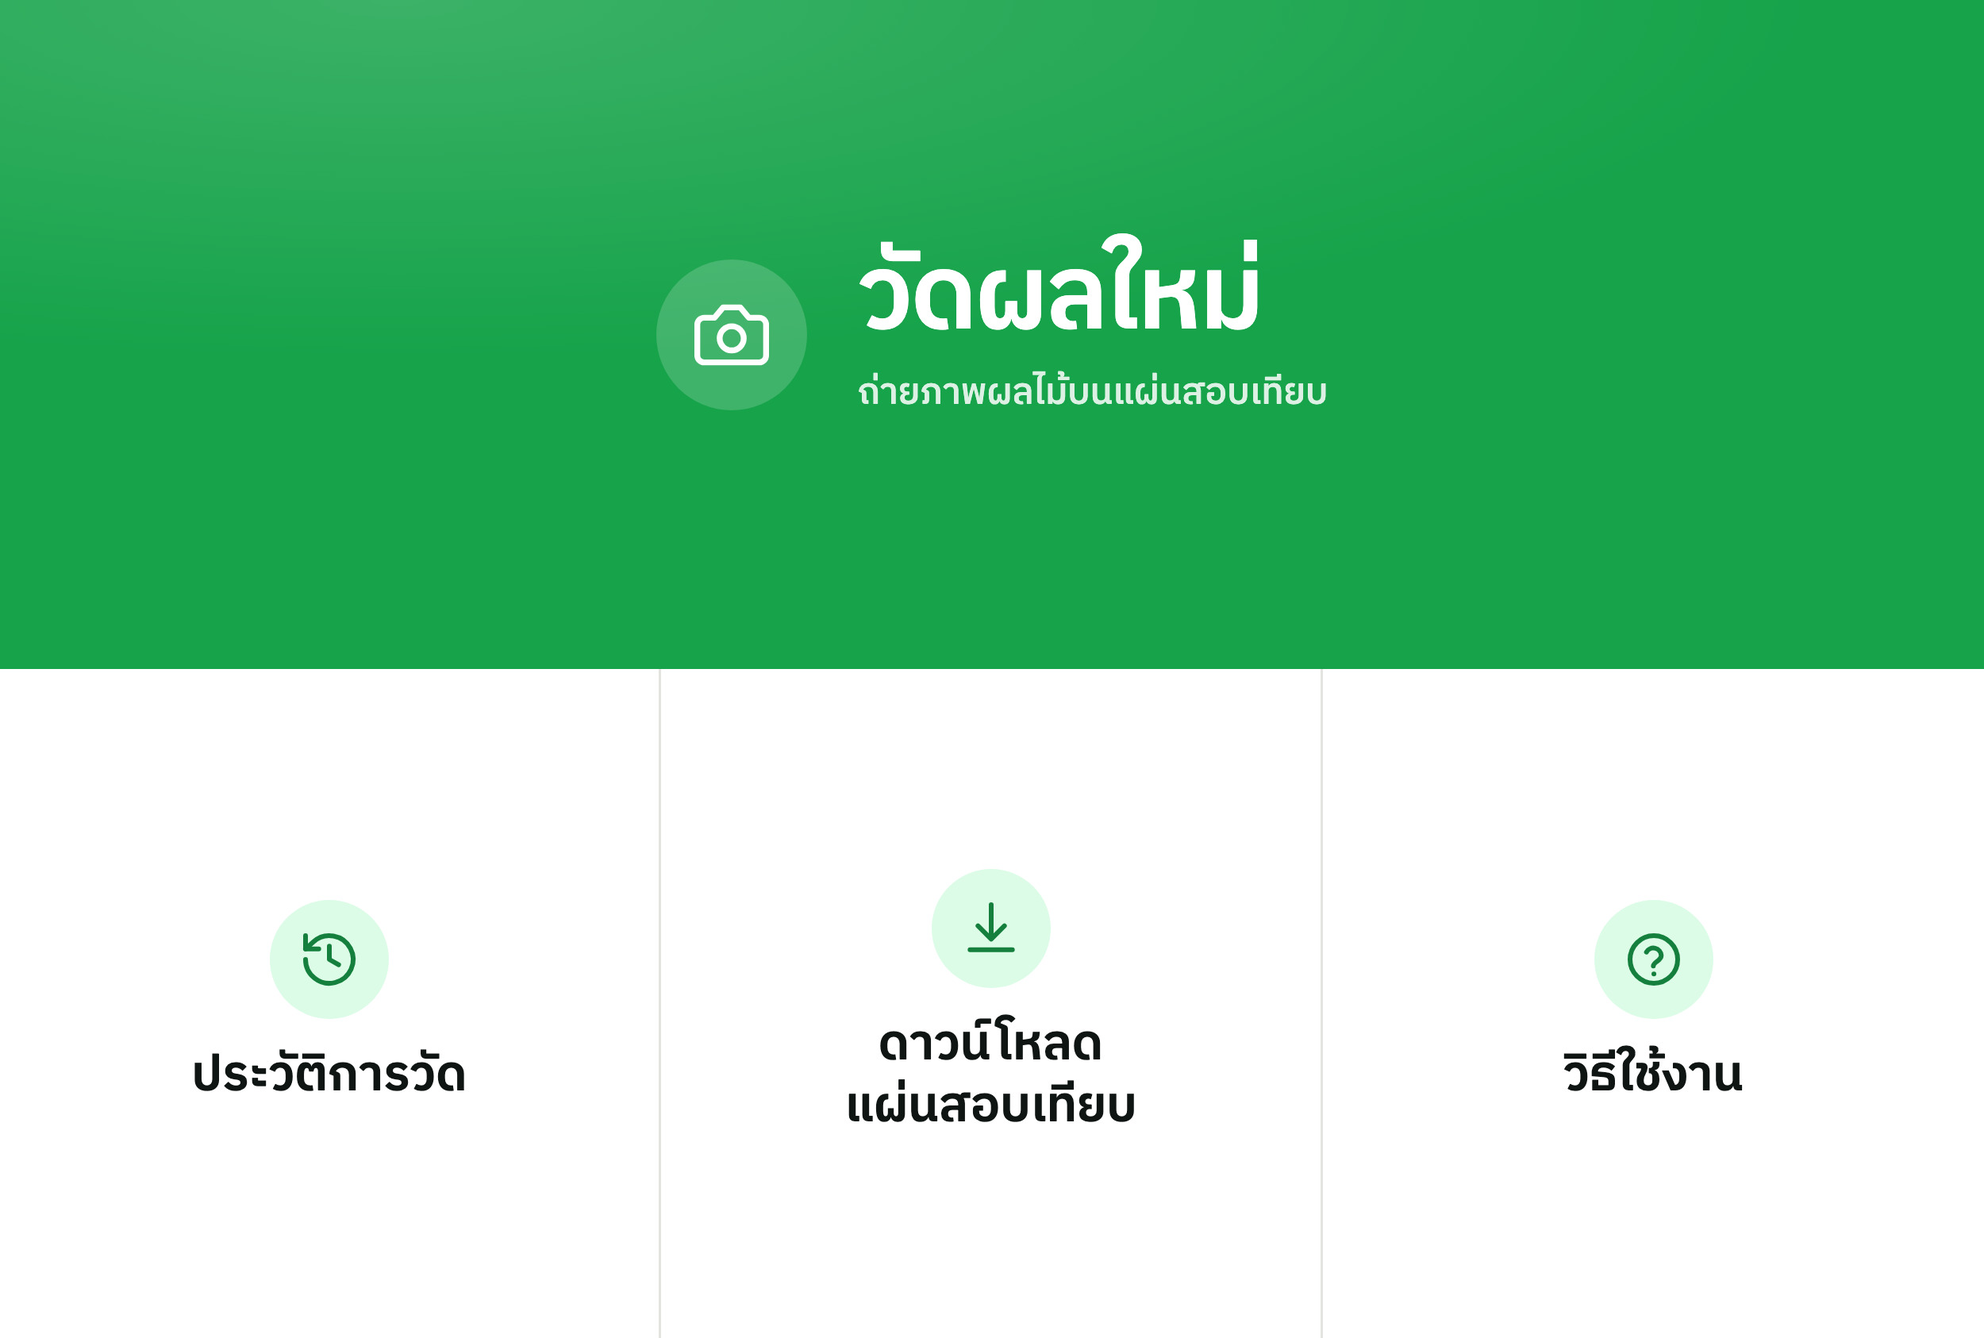
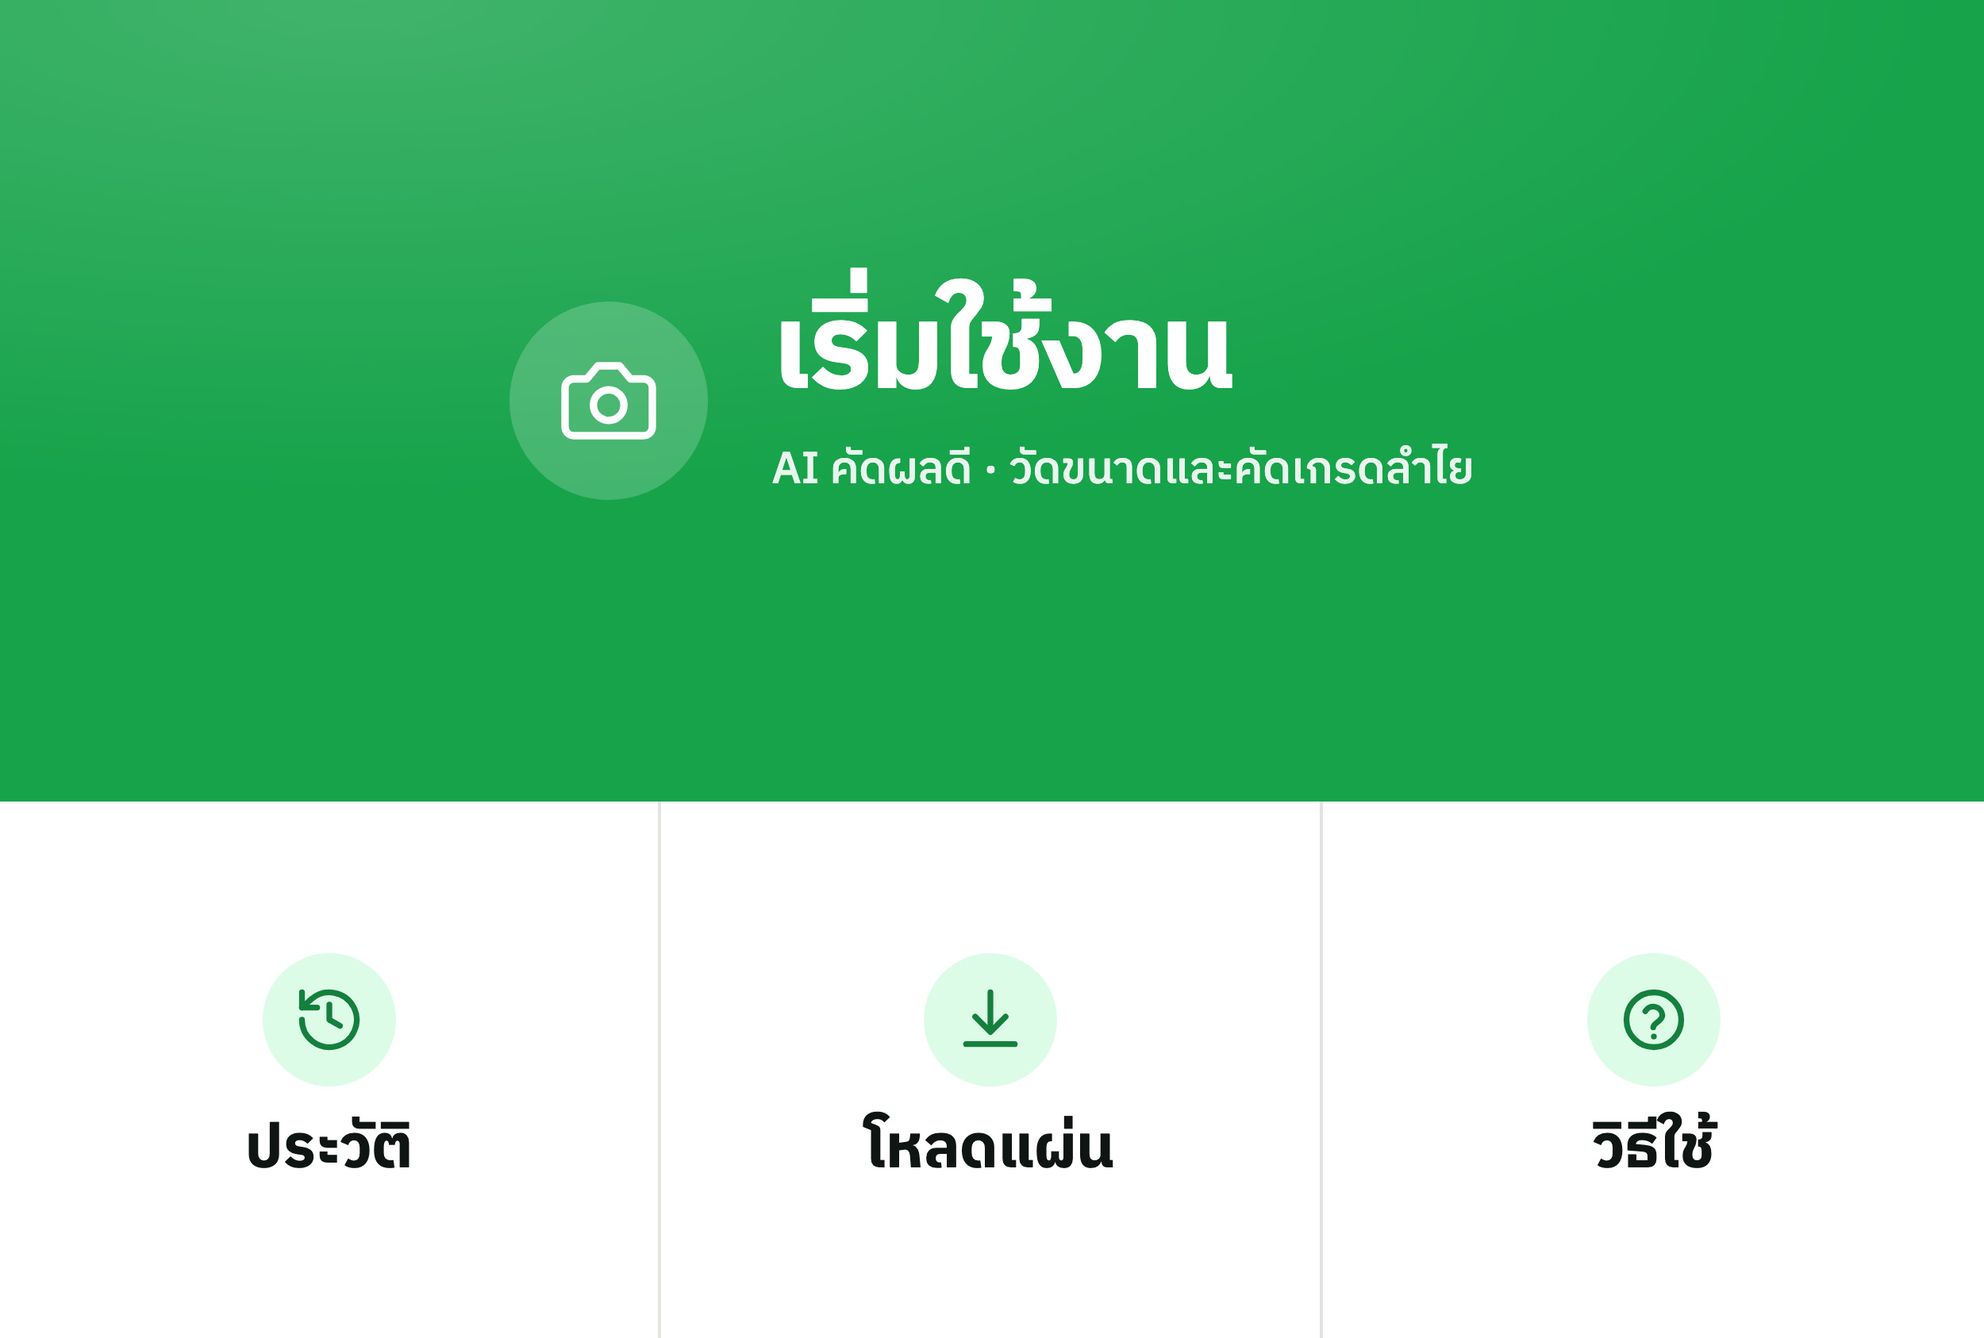
Show what was detected, on the farmer's own photo
After analysing, the result opens with the capture itself, every detected fruit
circled in its grade colour with the millimetres on it. A bare number is
something you either believe or you don't; a circle you can hold up against the
fruit in front of you is something you can check. It is also the fastest way to
catch the failure that matters most — fruit that were missed, or two touching
fruit read as one.

The server returns the homography rather than a rendered image: the client
already holds the photo, so drawing on it costs no bandwidth, adds no latency,
and keeps the picture recognisable as the one they just took.

Occluded fruit are drawn as grey dashed circles with no number — they are
counted, never measured, and must not look like a confident reading.

Rich menu redesigned around a single 1010 px primary button reading
เริ่มใช้งาน, with larger type throughout. Tap coordinates changed with it.

diff --git a/frontend/src/components/DetectionOverlay.tsx b/frontend/src/components/DetectionOverlay.tsx
@@ -1,0 +1,177 @@
+import { useEffect, useRef, useState } from 'react'
+import { Loader2 } from 'lucide-react'
+import { useT } from './ui'
+import { ruleById } from '@/domain/grade'
+import type { FruitProfile, MeasurementResult } from '@/domain/types'
+
+/**
+ * The farmer's own photo with every detection drawn on it.
+ *
+ * This is the trust surface of the whole app. A number on its own ("28.4 mm")
+ * is something you either believe or you don't; a circle around each fruit with
+ * its size on it is something you can check against what is in front of you.
+ * It is also the fastest way to spot the failure that matters — fruit that were
+ * missed, or two touching fruit read as one.
+ *
+ * Positions come back in mat millimetres, so they are projected through the
+ * homography the server solved. Drawing on the original photo rather than a
+ * rectified one keeps it recognisable as the picture they just took.
+ */
+export default function DetectionOverlay({
+  image,
+  result,
+  fruit,
+}: {
+  image: Blob
+  result: MeasurementResult
+  fruit: FruitProfile
+}) {
+  const { t, tx } = useT()
+  const canvasRef = useRef<HTMLCanvasElement>(null)
+  const [url, setUrl] = useState<string | null>(null)
+  const [busy, setBusy] = useState(true)
+
+  useEffect(() => {
+    let dead = false
+    const objectUrl = URL.createObjectURL(image)
+    const img = new Image()
+
+    img.onload = () => {
+      if (dead) return
+      const H = result.homography
+      const canvas = canvasRef.current
+      if (!canvas || !H || H.length !== 9) {
+        setBusy(false)
+        return
+      }
+
+      // cap the working size: a 12 MP canvas is pointless on a phone screen and
+      // slow enough to feel broken
+      const scale = Math.min(1, 1600 / Math.max(img.width, img.height))
+      canvas.width = Math.round(img.width * scale)
+      canvas.height = Math.round(img.height * scale)
+
+      const ctx = canvas.getContext('2d')!
+      ctx.drawImage(img, 0, 0, canvas.width, canvas.height)
+
+      /** mat millimetres -> canvas pixels */
+      const project = (x: number, y: number): [number, number] => {
+        const w = H[6] * x + H[7] * y + H[8]
+        return [
+          ((H[0] * x + H[1] * y + H[2]) / w) * scale,
+          ((H[3] * x + H[4] * y + H[5]) / w) * scale,
+        ]
+      }
+
+      const base = Math.max(canvas.width, canvas.height)
+      const line = Math.max(1.6, base * 0.0022)
+      const font = Math.max(11, base * 0.016)
+
+      // dim everything outside the measurement area so the eye goes to the fruit
+      const area = [
+        project(75, 75),
+        project(425, 75),
+        project(425, 425),
+        project(75, 425),
+      ]
+      ctx.save()
+      ctx.fillStyle = 'rgba(11,15,13,0.34)'
+      ctx.beginPath()
+      ctx.rect(0, 0, canvas.width, canvas.height)
+      ctx.moveTo(area[0][0], area[0][1])
+      for (let i = area.length - 1; i >= 0; i--) ctx.lineTo(area[i][0], area[i][1])
+      ctx.closePath()
+      ctx.fill('evenodd')
+      ctx.restore()
+
+      for (const f of result.fruits) {
+        const [cx, cy] = project(f.x, f.y)
+        const [ex, ey] = project(f.x + f.d / 2, f.y)
+        const r = Math.hypot(ex - cx, ey - cy)
+        if (!Number.isFinite(r) || r <= 0) continue
+
+        const rule = ruleById(fruit, f.grade)
+        // occluded fruit are counted but never measured, so they must not look
+        // like a confident reading
+        const colour = f.occluded ? '#9CA3AF' : (rule?.color ?? '#22C55E')
+
+        ctx.beginPath()
+        ctx.arc(cx, cy, r, 0, Math.PI * 2)
+        ctx.strokeStyle = colour
+        ctx.lineWidth = line
+        ctx.setLineDash(f.occluded ? [line * 3, line * 2.5] : [])
+        ctx.stroke()
+        ctx.setLineDash([])
+
+        if (f.occluded) continue
+
+        const label = f.d.toFixed(1)
+        ctx.font = `600 ${font}px "JetBrains Mono", monospace`
+        const w = ctx.measureText(label).width
+        const pad = font * 0.34
+        const bh = font * 1.42
+        const by = cy + r + font * 0.25
+
+        ctx.fillStyle = colour
+        ctx.beginPath()
+        ctx.roundRect(cx - w / 2 - pad, by, w + pad * 2, bh, bh / 2)
+        ctx.fill()
+
+        ctx.fillStyle = '#fff'
+        ctx.textAlign = 'center'
+        ctx.textBaseline = 'middle'
+        ctx.fillText(label, cx, by + bh / 2)
+      }
+
+      setUrl(canvas.toDataURL('image/jpeg', 0.88))
+      setBusy(false)
+    }
+
+    img.onerror = () => !dead && setBusy(false)
+    img.src = objectUrl
+
+    return () => {
+      dead = true
+      URL.revokeObjectURL(objectUrl)
+    }
+  }, [image, result, fruit])
+
+  const occluded = result.counted - result.measured
+
+  return (
+    <div>
+      <canvas ref={canvasRef} className="hidden" />
+      <div className="card overflow-hidden">
+        {busy ? (
+          <div className="grid aspect-[4/3] place-items-center bg-panel text-muted">
+            <Loader2 size={26} className="animate-spin" />
+          </div>
+        ) : url ? (
+          <img src={url} alt={t('result.overlayAlt')} className="block w-full" />
+        ) : (
+          <div className="grid aspect-[4/3] place-items-center bg-panel px-6 text-center text-[13px] text-muted">
+            {t('result.overlayUnavailable')}
+          </div>
+        )}
+      </div>
+
+      <div className="mt-3 flex flex-wrap items-center gap-x-4 gap-y-2 px-1 text-[12px] text-muted">
+        {fruit.grading.rules.map((r) => (
+          <span key={r.id} className="flex items-center gap-1.5">
+            <span
+              className="h-2.5 w-2.5 rounded-full"
+              style={{ backgroundColor: r.color }}
+            />
+            {tx(r.label)}
+          </span>
+        ))}
+        {occluded > 0 && (
+          <span className="flex items-center gap-1.5">
+            <span className="h-2.5 w-2.5 rounded-full border border-dashed border-muted" />
+            {t('result.occluded')} ({occluded})
+          </span>
+        )}
+      </div>
+    </div>
+  )
+}

diff --git a/line/richmenu.html b/line/richmenu.html
@@ -1,65 +1,74 @@
 <meta charset="utf-8">
 <style>
-  @font-face{font-family:'Plex';src:url('../frontend/public/fonts/IBMPlexSansThai-600-thai.woff2') format('woff2');font-weight:600}
-  @font-face{font-family:'Plex';src:url('../frontend/public/fonts/IBMPlexSansThai-600-latin.woff2') format('woff2');font-weight:600}
+  @font-face{font-family:'Plex';src:url('../frontend/public/fonts/IBMPlexSansThai-700-thai.woff2') format('woff2');font-weight:700}
+  @font-face{font-family:'Plex';src:url('../frontend/public/fonts/IBMPlexSansThai-700-latin.woff2') format('woff2');font-weight:700}
   @font-face{font-family:'Plex';src:url('../frontend/public/fonts/IBMPlexSansThai-500-thai.woff2') format('woff2');font-weight:500}
+  @font-face{font-family:'Plex';src:url('../frontend/public/fonts/IBMPlexSansThai-500-latin.woff2') format('woff2');font-weight:500}
   *{margin:0;padding:0;box-sizing:border-box}
-  body{width:2500px;height:1686px;font-family:'Plex',sans-serif;background:#FAFAF9;overflow:hidden}
-  .hero{height:843px;background:#16A34A;display:flex;align-items:center;justify-content:center;gap:64px;position:relative}
+  body{width:2500px;height:1686px;font-family:'Plex',sans-serif;background:#fff;overflow:hidden}
+
+  /* Hero takes 60% of the height. It is the only thing most people will ever
+     tap, so it gets the room — and it is readable at arm's length in sunlight. */
+  .hero{height:1010px;background:#16A34A;display:flex;align-items:center;
+        justify-content:center;gap:80px;position:relative}
   .hero::after{content:'';position:absolute;inset:0;
-    background:radial-gradient(120% 90% at 20% 0%,rgba(255,255,255,.16),transparent 60%)}
-  .hero .ic{width:190px;height:190px;border-radius:50%;background:rgba(255,255,255,.18);
-    display:grid;place-items:center;flex:0 0 auto}
-  .hero h1{font-size:132px;font-weight:600;color:#fff;letter-spacing:-.02em;line-height:1}
-  .hero p{font-size:46px;font-weight:500;color:rgba(255,255,255,.85);margin-top:16px}
-  .row{height:843px;display:grid;grid-template-columns:833px 834px 833px}
-  .cell{display:flex;flex-direction:column;align-items:center;justify-content:center;gap:34px;
-    background:#fff;border-right:3px solid #E3E3DF}
+    background:radial-gradient(130% 100% at 18% 0%,rgba(255,255,255,.18),transparent 62%)}
+  .hero .ic{width:250px;height:250px;border-radius:50%;background:rgba(255,255,255,.20);
+            display:grid;place-items:center;flex:0 0 auto}
+  .hero h1{font-size:150px;font-weight:700;color:#fff;letter-spacing:-.025em;line-height:1}
+  .hero p{font-size:56px;font-weight:500;color:rgba(255,255,255,.9);margin-top:26px}
+
+  .row{height:676px;display:grid;grid-template-columns:833px 834px 833px}
+  .cell{display:flex;flex-direction:column;align-items:center;justify-content:center;
+        gap:36px;background:#fff;border-right:4px solid #E3E3DF}
   .cell:last-child{border-right:0}
-  .cell .ic{width:150px;height:150px;border-radius:50%;background:#DCFCE7;display:grid;place-items:center}
-  .cell span{font-size:62px;font-weight:600;color:#0F1512;text-align:center;line-height:1.25}
+  .cell .ic{width:168px;height:168px;border-radius:50%;background:#DCFCE7;
+            display:grid;place-items:center}
+  .cell span{font-size:76px;font-weight:700;color:#0F1512;text-align:center;line-height:1.18}
   svg{display:block}
 </style>
+
 <div class="hero">
   <div class="ic">
-    <svg width="104" height="104" viewBox="0 0 24 24" fill="none" stroke="#fff" stroke-width="1.7"
-      stroke-linecap="round" stroke-linejoin="round">
+    <svg width="132" height="132" viewBox="0 0 24 24" fill="none" stroke="#fff"
+      stroke-width="1.7" stroke-linecap="round" stroke-linejoin="round">
       <path d="M14.5 4h-5L7 7H4a2 2 0 0 0-2 2v9a2 2 0 0 0 2 2h16a2 2 0 0 0 2-2V9a2 2 0 0 0-2-2h-3l-2.5-3Z"/>
       <circle cx="12" cy="13" r="3.5"/>
     </svg>
   </div>
   <div>
-    <h1>วัดผลใหม่</h1>
-    <p>ถ่ายภาพผลไม้บนแผ่นสอบเทียบ</p>
+    <h1>เริ่มใช้งาน</h1>
+    <p>AI คัดผลดี · วัดขนาดและคัดเกรดลำไย</p>
   </div>
 </div>
+
 <div class="row">
   <div class="cell">
     <div class="ic">
-      <svg width="80" height="80" viewBox="0 0 24 24" fill="none" stroke="#15803D" stroke-width="1.8"
-        stroke-linecap="round" stroke-linejoin="round">
+      <svg width="92" height="92" viewBox="0 0 24 24" fill="none" stroke="#15803D"
+        stroke-width="1.9" stroke-linecap="round" stroke-linejoin="round">
         <path d="M3 12a9 9 0 1 0 3-6.7L3 8"/><path d="M3 3v5h5"/><path d="M12 7v5l3.5 2"/>
       </svg>
     </div>
-    <span>ประวัติการวัด</span>
+    <span>ประวัติ</span>
   </div>
   <div class="cell">
     <div class="ic">
-      <svg width="80" height="80" viewBox="0 0 24 24" fill="none" stroke="#15803D" stroke-width="1.8"
-        stroke-linecap="round" stroke-linejoin="round">
+      <svg width="92" height="92" viewBox="0 0 24 24" fill="none" stroke="#15803D"
+        stroke-width="1.9" stroke-linecap="round" stroke-linejoin="round">
         <path d="M12 3v12"/><path d="m7 11 5 5 5-5"/><path d="M4 20h16"/>
       </svg>
     </div>
-    <span>ดาวน์โหลด<br>แผ่นสอบเทียบ</span>
+    <span>โหลดแผ่น</span>
   </div>
   <div class="cell">
     <div class="ic">
-      <svg width="80" height="80" viewBox="0 0 24 24" fill="none" stroke="#15803D" stroke-width="1.8"
-        stroke-linecap="round" stroke-linejoin="round">
+      <svg width="92" height="92" viewBox="0 0 24 24" fill="none" stroke="#15803D"
+        stroke-width="1.9" stroke-linecap="round" stroke-linejoin="round">
         <circle cx="12" cy="12" r="9"/>
         <path d="M9.2 9.2a3 3 0 0 1 5.6 1.3c0 2-3 2.5-3 4"/><path d="M12 17.5h.01"/>
       </svg>
     </div>
-    <span>วิธีใช้งาน</span>
+    <span>วิธีใช้</span>
   </div>
 </div>

diff --git a/frontend/src/features/ResultPage.tsx b/frontend/src/features/ResultPage.tsx
@@ -7,6 +7,7 @@ import { getFruit } from '@/domain/fruits'
 import { MATS } from '@/domain/mats'
 import { ruleById } from '@/domain/grade'
 import { labToCss, skinFlag, summariseSkin } from '@/domain/skin'
+import DetectionOverlay from '@/components/DetectionOverlay'
 import { useApp } from '@/store/app'
 import { addCapture } from '@/lib/db'
 
@@ -81,6 +82,13 @@ export default function ResultPage() {
         </div>
       ) : (
         <>
+          <Section title={t('result.overlay')}>
+            <DetectionOverlay image={image} result={result} fruit={fruit} />
+            <p className="mt-2 px-1 text-[12px] leading-relaxed text-muted">
+              {t('result.overlayHint')}
+            </p>
+          </Section>
+
           <div className="card mt-5 grid grid-cols-2 gap-x-4 gap-y-6 p-5">
             <Stat label={t('result.counted')} value={result.counted} unit={t('common.fruitUnit')} />
             <Stat

diff --git a/frontend/src/domain/types.ts b/frontend/src/domain/types.ts
@@ -145,6 +145,10 @@ export interface MeasurementResult {
   meanChroma?: number | null
   meanUniformity?: number | null
 
+  /** 3x3 row-major, mat mm -> pixels in the uploaded photo. Lets the client
+   *  draw detections back onto the farmer's own image. */
+  homography?: number[] | null
+  sharpness?: number | null
   intrinsicsSource?: string | null
   reprojectionErrorPx?: number | null
   warnings?: string[]

diff --git a/backend/app/vision/pipeline.py b/backend/app/vision/pipeline.py
@@ -61,6 +61,10 @@ class PipelineResult:
     intrinsics_source: str | None
     reprojection_error_px: float | None
     sharpness: float
+    # 3x3 homography, row-major: mat millimetres -> pixels in the ORIGINAL photo.
+    # Lets the client draw the detections back onto the farmer's own picture
+    # instead of the server shipping a second image for it.
+    homography: list[float]
     processing_ms: int
     fruits: list[FruitResult] = field(default_factory=list)
     warnings: list[tuple[str, dict]] = field(default_factory=list)
@@ -189,6 +193,7 @@ def measure_image(
             else None
         ),
         sharpness=fix.sharpness,
+        homography=[round(float(v), 8) for v in fix.homography.ravel()],
         processing_ms=int((time.perf_counter() - t0) * 1000),
         fruits=fruits,
         warnings=warnings,

diff --git a/backend/app/schemas.py b/backend/app/schemas.py
@@ -61,6 +61,10 @@ class MeasurementResult(BaseModel):
     intrinsicsSource: str | None = None
     reprojectionErrorPx: float | None = None
     sharpness: float | None = None
+    homography: list[float] | None = Field(
+        default=None,
+        description="3x3 row-major, mat mm -> pixels in the uploaded image",
+    )
     warnings: list[str] = Field(default_factory=list)
 
 

diff --git a/backend/app/main.py b/backend/app/main.py
@@ -263,5 +263,6 @@ async def measure(
         intrinsicsSource=res.intrinsics_source,
         reprojectionErrorPx=res.reprojection_error_px,
         sharpness=res.sharpness,
+        homography=res.homography,
         warnings=[msg(code, lc, **kw) for code, kw in res.warnings],
     )

diff --git a/line/README.md b/line/README.md
@@ -23,10 +23,13 @@
 
 | ช่อง | ปุ่ม | x | y | กว้าง | สูง | Action |
 |---|---|---|---|---|---|---|
-| A | วัดผลใหม่ | 0 | 0 | 2500 | 843 | `https://liff.line.me/{LIFF_ID}/capture` |
-| B | ประวัติการวัด | 0 | 843 | 833 | 843 | `https://liff.line.me/{LIFF_ID}/history` |
-| C | ดาวน์โหลดแผ่น | 833 | 843 | 834 | 843 | ลิงก์ไฟล์ PDF แผ่นสอบเทียบ |
-| D | วิธีใช้งาน | 1667 | 843 | 833 | 843 | `https://liff.line.me/{LIFF_ID}/welcome` |
+| A | เริ่มใช้งาน | 0 | 0 | 2500 | **1010** | `https://liff.line.me/2010888329-xpoKW4da/capture` |
+| B | ประวัติ | 0 | **1010** | 833 | **676** | `https://liff.line.me/2010888329-xpoKW4da/history` |
+| C | โหลดแผ่น | 833 | **1010** | 834 | **676** | `https://kat-pon-dee.vercel.app/mats/calibration-mat-500x500mm.pdf` |
+| D | วิธีใช้ | 1667 | **1010** | 833 | **676** | `https://liff.line.me/2010888329-xpoKW4da/welcome` |
+
+ปุ่มหลักสูง 1010 px ไม่ใช่ 843 เหมือนเวอร์ชันแรก — ชาวสวนส่วนใหญ่จะกดแค่ปุ่มนี้
+ปุ่มเดียว จึงให้พื้นที่มันมากที่สุด และตัวอักษรใหญ่พอที่จะอ่านออกกลางแดด
 
 > ช่อง C ต้องมี URL ของไฟล์ PDF ที่เข้าถึงได้จากอินเทอร์เน็ต — ตอนนี้ไฟล์อยู่ใน
 > `AI Longan Measure/export/` ซึ่งยังไม่ได้อัปขึ้นที่ไหน ต้องอัปก่อนถึงจะใช้ได้
